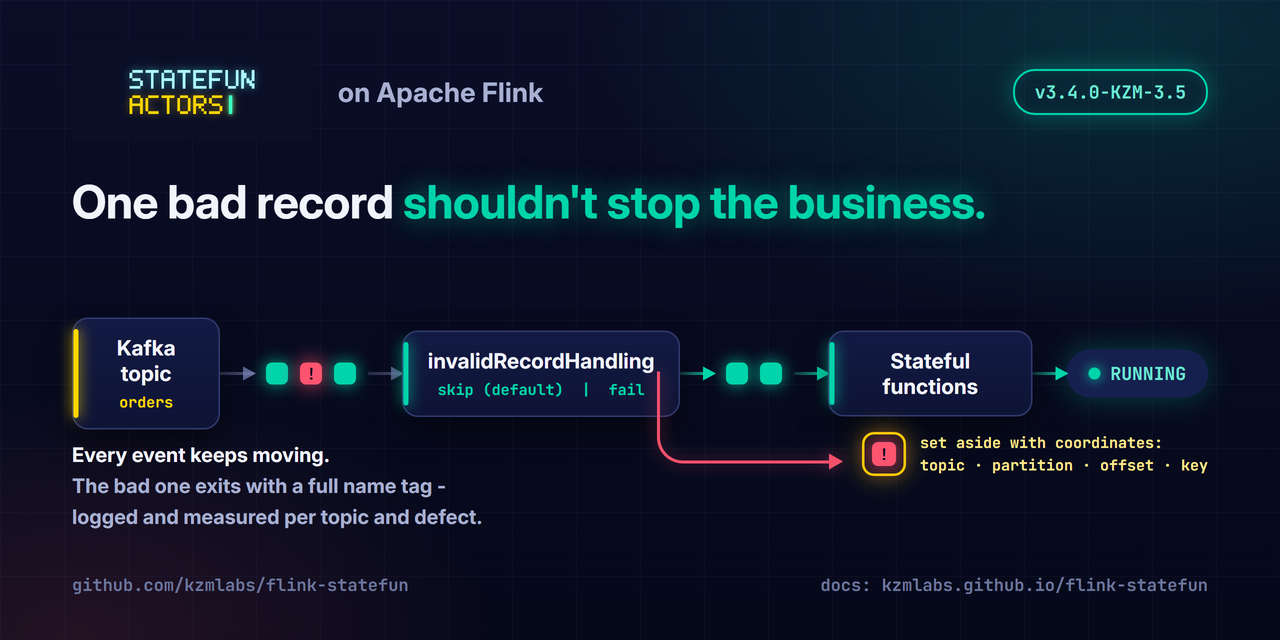
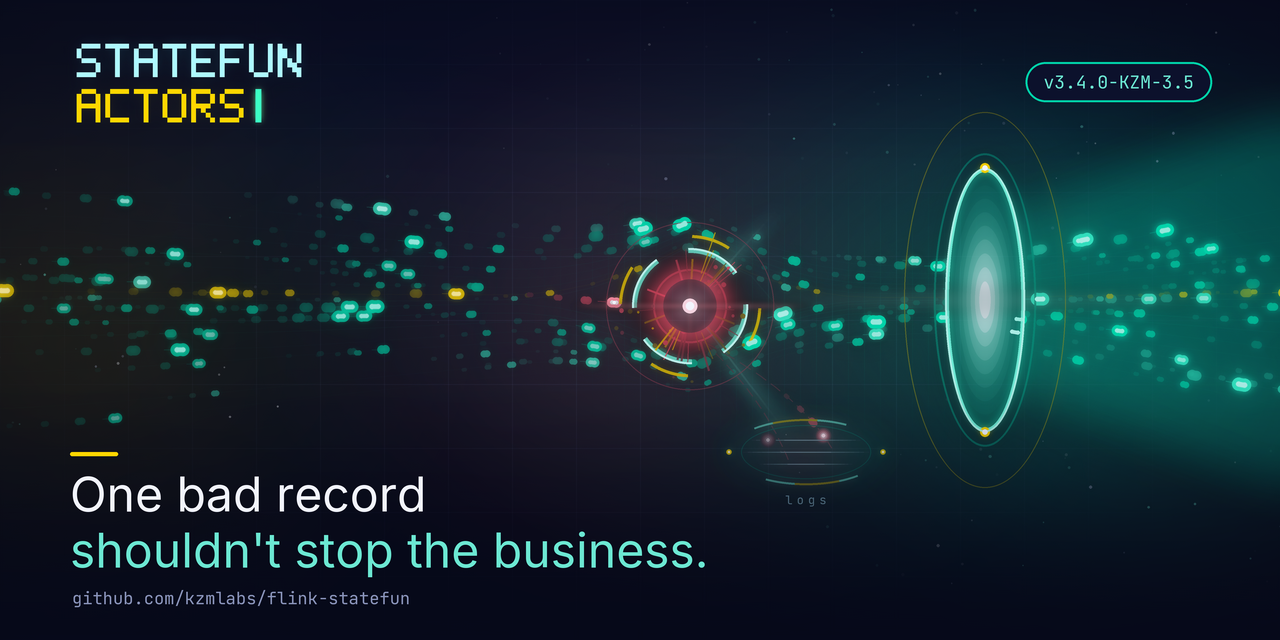
docs: retitle invalid-records article, cosmic hero, fix Prometheus metric labels
- title now names Kafka + Flink + Stateful Functions and drops the
  arbitrary '20 pipelines' (article, index, nav)
- narrative no longer hinges on a magic 20; a Flink job fails as a unit
- hero swapped to the cosmic interceptor visual (shared with the launch post)
- Metrics/Alerting: topic and defect are key-value metric-group KEYS, so
  under Prometheus they are LABELS on
  flink_..._deserializer_numInvalidRecordsSkipped, not part of the metric
  name; the dotted topic.<topic>.defect.<defect> form is the JMX/logical
  identifier only. PromQL corrected accordingly.

diff --git a/docs/guides/metrics.md b/docs/guides/metrics.md
@@ -11,17 +11,20 @@ StateFun Actors jobs expose the standard [Flink metrics](https://nightlies.apach
 
 Registered on the source operator's metric group of the routable Kafka ingress. They increment once per record skipped under `invalidRecordHandling: skip` (see [Kafka I/O](kafka-io.md#invalid-records)); under `type: fail` nothing increments because the first invalid record fails the job.
 
-Both counters register inside the `deserializer` subgroup that KafkaSource hands to the deserialization schema, so their full scope is `<operator>.deserializer.*`:
+Both counters register inside the `deserializer` subgroup that KafkaSource hands to the deserialization schema, so their metric name lives under `<operator>.deserializer.*`:
 
-| Metric | Increments | Naming rationale |
+| Counter | Increments | Dimensions |
 |---|---|---|
-| `deserializer.numInvalidRecordsSkipped` | once per skipped record, all topics of the ingress | Flink operator-counter convention `numXxx`, cf. `numLateRecordsDropped` |
-| `deserializer.topic.<topic>.defect.<defect>.numInvalidRecordsSkipped` | once per skipped record of that topic and defect | key-value metric groups, same pattern as the Kafka connector's `KafkaSourceReader.topic.<topic>.partition.<partition>.*` |
+| `numInvalidRecordsSkipped` | once per skipped record, all topics of the ingress | none |
+| `numInvalidRecordsSkipped` | once per skipped record of that topic and defect | `topic`, `defect` (key-value metric groups) |
 
-`<defect>` is `NULL_KEY` or `NULL_VALUE`, matching the `defect [...]` field of the per-record skip log line.
+The per-topic breakdown uses `addGroup("topic", …).addGroup("defect", …)` - the two-argument, key-value form. `topic` and `defect` are the group **keys**, so they become dimensions (labels/tags in reporters that support them), not part of the metric name. `<defect>` is `NULL_KEY` or `NULL_VALUE`, matching the `defect [...]` field of the per-record skip log line.
 
 The [FLIP-33](https://cwiki.apache.org/confluence/display/FLINK/FLIP-33%3A+Standardize+Connector+Metrics) standard `numRecordsInErrors` counter is deliberately not touched: it lives on the operator I/O metric group, which is not reachable from the deserializer context, and a same-named counter in a different scope would only mislead dashboards.
 
-## Prometheus mapping
+## How each reporter renders it
 
-Key-value groups become labels: the per-topic counter arrives as `..._deserializer_topic_defect_numInvalidRecordsSkipped{topic="example.orders", defect="NULL_VALUE"}`. The metric name prefix depends on the reporter's scope format; the trailing `deserializer_topic_defect_numInvalidRecordsSkipped` part is stable. Alert rules for these counters: [Alerting](alerting.md).
+The two representations are the same metric, rendered differently per reporter - this trips people up, so both are spelled out:
+
+- **JMX / Slf4j / other label-less reporters** fold the key-value groups into the logical identifier: `…deserializer.topic.<topic>.defect.<defect>.numInvalidRecordsSkipped`. Here `topic`/`defect` and their values *are* part of the name.
+- **Prometheus** turns key-value groups into labels. The metric name is `flink_taskmanager_job_task_operator_deserializer_numInvalidRecordsSkipped` and the breakdown arrives as labels: `{topic="example.orders", defect="NULL_VALUE"}`. The values are **not** in the name - query by label. Alert rules: [Alerting](alerting.md).

diff --git a/docs/guides/alerting.md b/docs/guides/alerting.md
@@ -5,7 +5,7 @@ description: Prometheus alert rules for the invalid-record counters of the routa
 
 # Alerting
 
-Alert rules for the counters documented in [Metrics](metrics.md). Prerequisite: a Prometheus reporter scraping the TaskManagers (port 9249 in the reference deployments). The metric name prefix below follows the default scope format; adjust it to your `metrics.scope.*` configuration - the `deserializer_topic_defect_numInvalidRecordsSkipped` suffix is stable.
+Alert rules for the counters documented in [Metrics](metrics.md). Prerequisite: a Prometheus reporter scraping the TaskManagers (port 9249 in the reference deployments). `topic` and `defect` are Prometheus **labels**, not part of the metric name - the counter is `flink_taskmanager_job_task_operator_deserializer_numInvalidRecordsSkipped{topic="…", defect="…"}`. The name prefix follows the default scope format; adjust it to your `metrics.scope.*` configuration - the `deserializer_numInvalidRecordsSkipped` suffix is stable.
 
 ## Invalid records
 
@@ -15,7 +15,7 @@ Both expressions aggregate with `sum by (topic, defect)`: a parallel ingress emi
 
 ```yaml
 - alert: StateFunInvalidRecordsSkipped
-  expr: sum by (topic, defect) (increase(flink_taskmanager_job_task_operator_deserializer_topic_defect_numInvalidRecordsSkipped[5m])) > 0
+  expr: sum by (topic, defect) (increase(flink_taskmanager_job_task_operator_deserializer_numInvalidRecordsSkipped[5m])) > 0
   labels:
     severity: warning
   annotations:
@@ -27,7 +27,7 @@ To page on a sustained stream rather than a single stray record, alert on the ra
 
 ```yaml
 - alert: StateFunInvalidRecordsSustained
-  expr: sum by (topic, defect) (rate(flink_taskmanager_job_task_operator_deserializer_topic_defect_numInvalidRecordsSkipped[15m])) > 0.1
+  expr: sum by (topic, defect) (rate(flink_taskmanager_job_task_operator_deserializer_numInvalidRecordsSkipped[15m])) > 0.1
   labels:
     severity: critical
   annotations:

diff --git a/docs/articles/invalid-record-handling.md b/docs/articles/invalid-record-handling.md
@@ -1,9 +1,9 @@
 ---
-title: One bad Kafka record should not kill 20 pipelines
+title: One bad Kafka record shouldn't crash a Flink Stateful Functions job
 description: A single null-key record crashed a whole Stateful Functions job. StateFun Actors 3.4.0-KZM-3.5 ships invalidRecordHandling - skip by default, strict fail per topic, full per-record diagnostics.
 ---
 
-# One bad Kafka record should not kill 20 pipelines
+# One bad Kafka record shouldn't crash a Flink Stateful Functions job
 
 *Published 2026-08-08 · by the kzmlabs maintainers*
 
@@ -15,7 +15,7 @@ In Apache Stateful Functions, the routable Kafka ingress had no policy for malfo
 
 Either way the whole Flink job died - every ingress, every topic, every function, not just the pipeline that read the record. And it looped: the poison record's offset is never committed, so each restart re-reads it and dies again until the job parks at terminal `FAILED`.
 
-With twenty topics feeding twenty pipelines in one job, one producer bug on one topic halts all twenty.
+A Flink job runs many pipelines together and fails as a unit, so one producer bug on one topic halts all of them - not just the pipeline that read the record.
 
 ```mermaid
 flowchart LR
@@ -23,9 +23,9 @@ flowchart LR
     subgraph job ["one Flink job"]
         T1["topic: tracking"] --> F1["pipeline 1 ✓"]
         T3["topic: orders"] --> X["deserializer throws"]
-        T20["topic: billing"] --> F20["pipeline 20 ✓"]
+        TN["topic: billing"] --> FN["pipeline N ✓"]
     end
-    X == "job fails as a unit" ==> DOWN["ALL 20 pipelines FAILED"]
+    X == "job fails as a unit" ==> DOWN["every pipeline FAILED"]
     style X fill:#ff5470,color:#0a0e27
     style DOWN fill:#ff5470,color:#0a0e27
 ```

diff --git a/docs/articles/index.md b/docs/articles/index.md
@@ -9,7 +9,7 @@ Long-form notes from the maintainers - the design decisions, migration playbooks
 
 ## Latest
 
-- [**One bad Kafka record should not kill 20 pipelines**](invalid-record-handling.md)
+- [**One bad Kafka record shouldn't crash a Flink Stateful Functions job**](invalid-record-handling.md)
   A single null-key record used to crash the whole Stateful Functions job. KZM-3.5 turns that outage into a log line, a labeled metric and a routine ticket - with a strict mode one line of yaml away. *2026-08-08*
 
 - [**Kafka record headers in Stateful Functions - closing a five-year-old gap**](kafka-record-headers.md)
